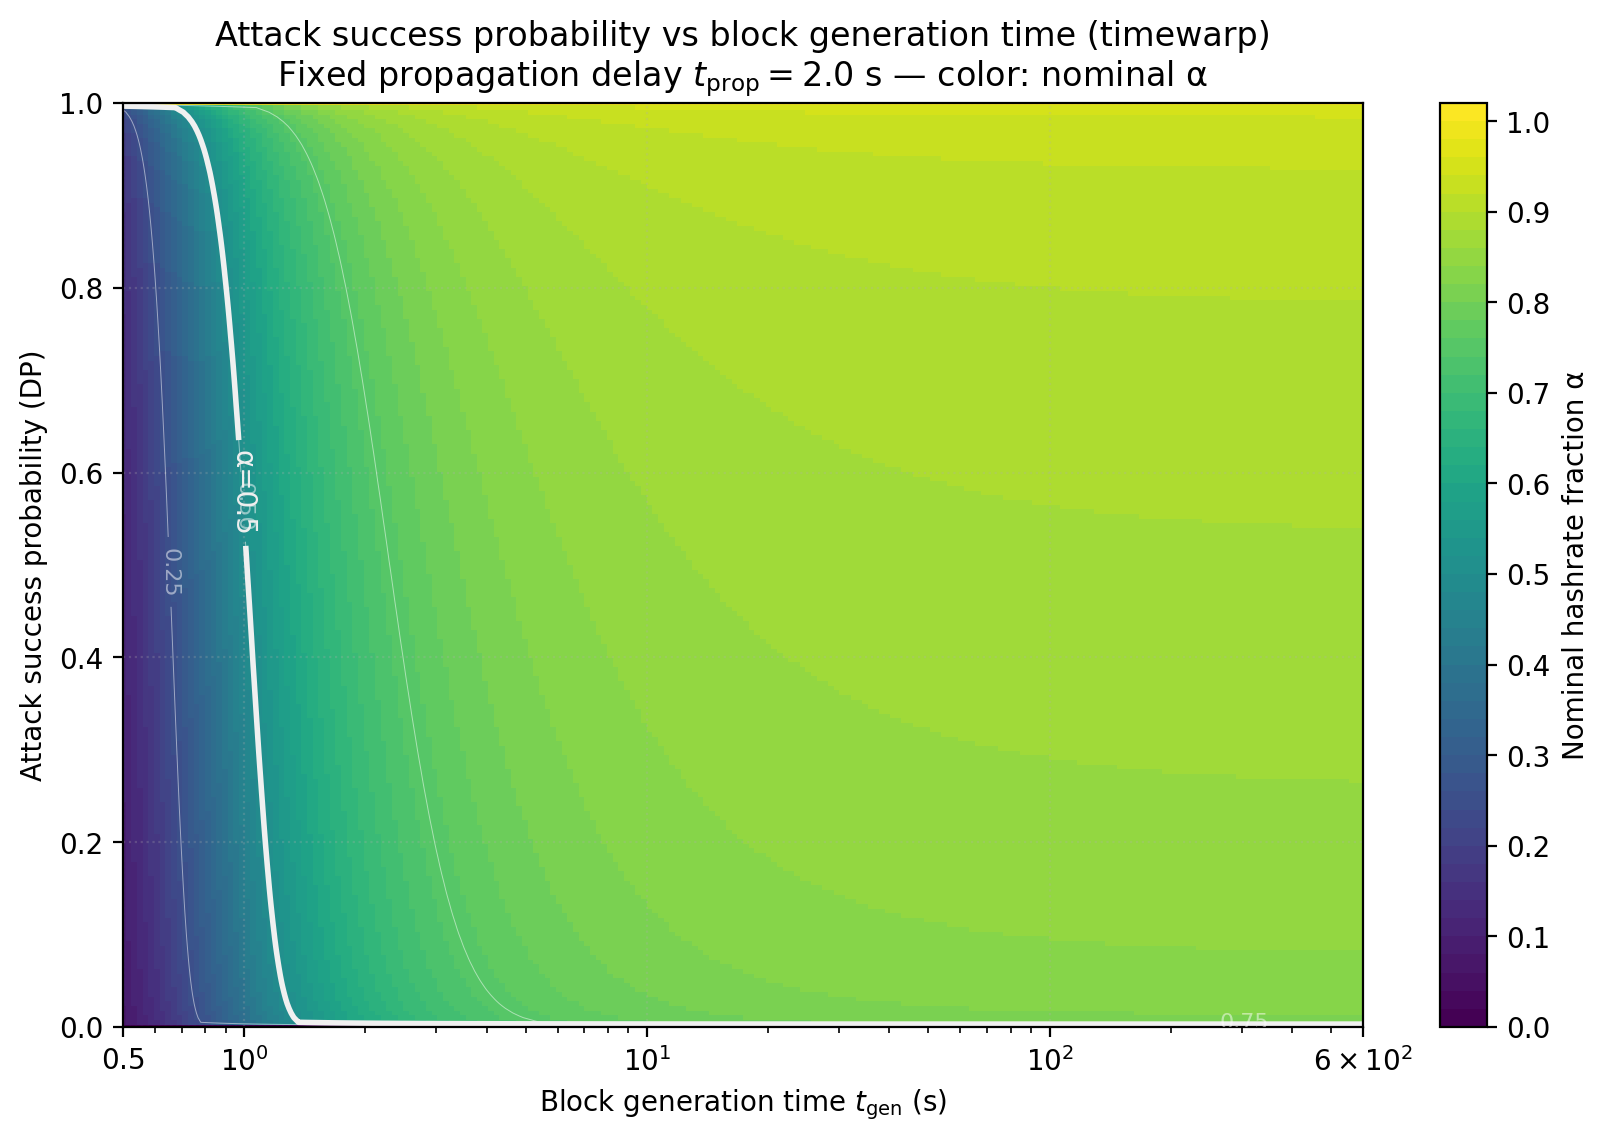
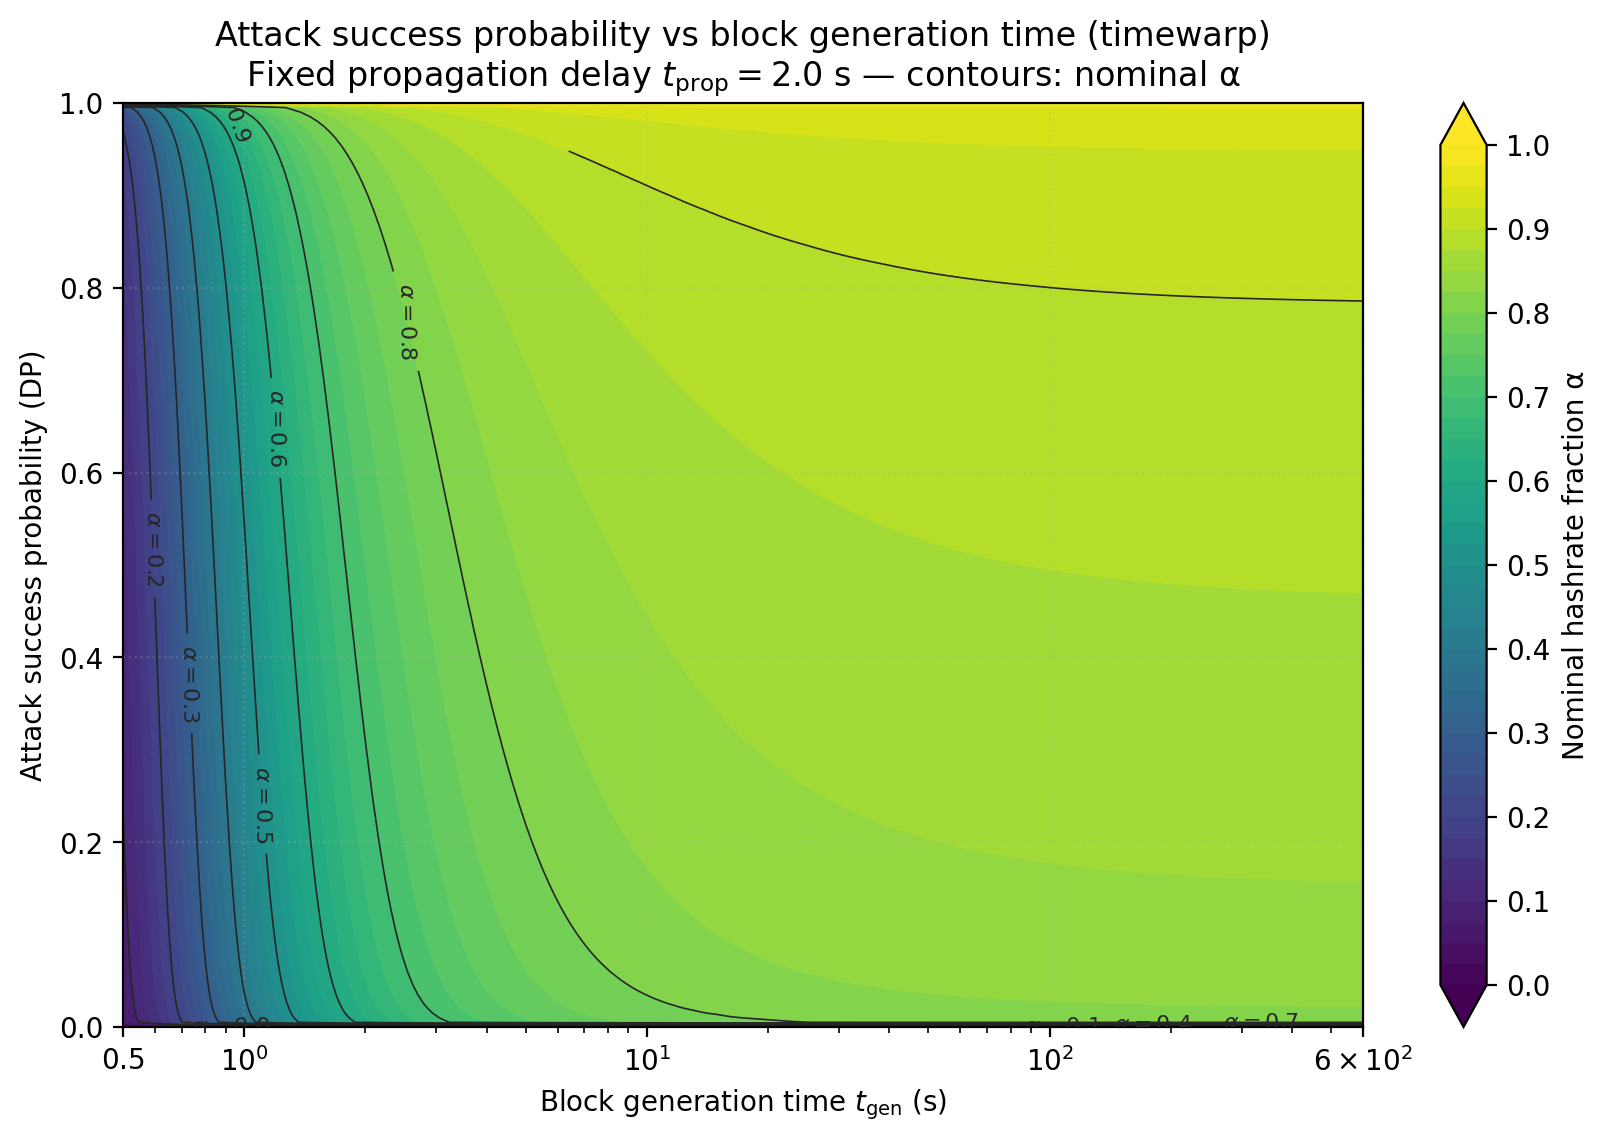
add scripts

diff --git a/experiments/timewarp_theory_analysis/scripts/plot_nominal_hashrate_heatmap_block_generation_time.py b/experiments/timewarp_theory_analysis/scripts/plot_nominal_hashrate_heatmap_block_generation_time.py
@@ -1,7 +1,7 @@
 """
 横軸: ブロック生成時間 t_gen（秒）
 縦軸: DP による攻撃成功率
-色: 名目ハッシュレート割合 α
+塗りつぶし・等高線: 名目ハッシュレート割合 α
 
 伝播遅延 t_prop は固定（T_PROP）。
 
@@ -17,7 +17,6 @@ from pathlib import Path
 
 import numpy as np
 import matplotlib.pyplot as plt
-from matplotlib.colors import BoundaryNorm
 
 # ==========================================
 # 1. 動的計画法 (DP) による攻撃成功率の計算
@@ -96,7 +95,7 @@ def _alpha_from_success_column(success_vs_alpha, alpha_grid, success_targets):
 
 
 # ==========================================
-# 2. ヒートマップ（横軸 = ブロック生成時間、縦 = 成功率、色 = α）
+# 2. 等高線図（横軸 = ブロック生成時間、縦 = 成功率、色・線 = α）
 # ==========================================
 def plot_nominal_hashrate_heatmap_by_block_generation_time():
     T_PROP = 2.0
@@ -136,32 +135,43 @@ def plot_nominal_hashrate_heatmap_by_block_generation_time():
 
     fig, ax = plt.subplots(figsize=(10, 6))
 
-    # α を細かい離散段に分割（BoundaryNorm の境界数 = 段数 + 1）
-    n_alpha_color_levels = 50
-    boundaries = np.concatenate(
-        [np.linspace(0.0, 1.0, n_alpha_color_levels + 1), [1.001]]
-    )
     cmap = plt.colormaps["viridis"].copy()
     cmap.set_bad(color="#cccccc")
-    norm = BoundaryNorm(boundaries, ncolors=cmap.N, clip=True)
+    fill_levels = np.linspace(0.0, 1.0, 41)
+    line_levels = np.arange(0.0, 1.01, 0.1)
 
-    pcm = ax.pcolormesh(X, Y, Z, shading="auto", cmap=cmap, norm=norm)
+    csf = ax.contourf(
+        X,
+        Y,
+        Z,
+        levels=fill_levels,
+        cmap=cmap,
+        extend="both",
+        corner_mask=False,
+    )
+    cs = ax.contour(
+        X,
+        Y,
+        Z,
+        levels=line_levels,
+        colors="0.15",
+        linewidths=0.6,
+        linestyles="solid",
+        corner_mask=False,
+    )
+    ax.clabel(cs, inline=True, fontsize=8, fmt=r"$\alpha=%.1f$")
+
     cbar = fig.colorbar(
-        pcm,
+        csf,
         ax=ax,
         label="Nominal hashrate fraction α",
         ticks=np.linspace(0.0, 1.0, 11),
     )
     cbar.ax.minorticks_off()
 
-    cs_fine = ax.contour(X, Y, Z, levels=[0.25, 0.5, 0.75], colors="w", linewidths=0.35, alpha=0.5)
-    ax.clabel(cs_fine, inline=True, fontsize=8, fmt="%.2f")
-    cs50 = ax.contour(X, Y, Z, levels=[0.5], colors=["#f0f0f0"], linewidths=2.0, linestyles="-")
-    ax.clabel(cs50, inline=True, fontsize=10, fmt=lambda _lev: "α=0.5")
-
     ax.set_title(
         "Attack success probability vs block generation time (timewarp)\n"
-        f"Fixed propagation delay $t_{{\\mathrm{{prop}}}} = {T_PROP}$ s — color: nominal α"
+        f"Fixed propagation delay $t_{{\\mathrm{{prop}}}} = {T_PROP}$ s — contours: nominal α"
     )
     ax.set_xlabel("Block generation time $t_{\\mathrm{gen}}$ (s)")
     ax.set_ylabel("Attack success probability (DP)")

diff --git a/experiments/timewarp_theory_analysis/scripts/plot_true_threshold.py b/experiments/timewarp_theory_analysis/scripts/plot_true_threshold.py
@@ -1,0 +1,34 @@
+import numpy as np
+import matplotlib.pyplot as plt
+from pathlib import Path
+
+# beta ranges from 0.001 to 0.5
+betas = np.linspace(0.001, 0.499, 1000)
+
+# Calculate lambda * Delta based on the equation: beta = (1 - beta) / (1 + (1 - beta) * lambda * Delta)
+# which gives lambda * Delta = (1 - 2 * beta) / (beta * (1 - beta))
+lambda_delta = (1 - 2 * betas) / (betas * (1 - betas))
+inv_lambda_delta = 1.0 / lambda_delta
+
+plt.figure(figsize=(10, 6))
+plt.plot(inv_lambda_delta, betas, label=r'True Threshold $\beta^*(\lambda\Delta)$', color='blue', linewidth=2)
+
+plt.xlim(0.1, 100)
+plt.xscale("log")
+plt.ylim(0, 0.5)
+
+plt.xlabel(r'Inverse: $1 / (\lambda \Delta)$', fontsize=12)
+plt.ylabel(r'Adversary Mining Power Threshold ($\beta$)', fontsize=12)
+plt.title('True Security Threshold for PoW Model\n(Dembo et al., "Everything is a Race and Nakamoto Always Wins")', fontsize=14)
+plt.grid(True, linestyle='--', alpha=0.7)
+plt.legend(fontsize=12)
+plt.tight_layout()
+out_path = (
+    Path(__file__).resolve().parents[1]
+    / "results"
+    / "pow_true_threshold.png"
+)
+out_path.parent.mkdir(parents=True, exist_ok=True)
+plt.savefig(out_path, dpi=200)
+plt.close()
+print(f"Saved: {out_path}")
